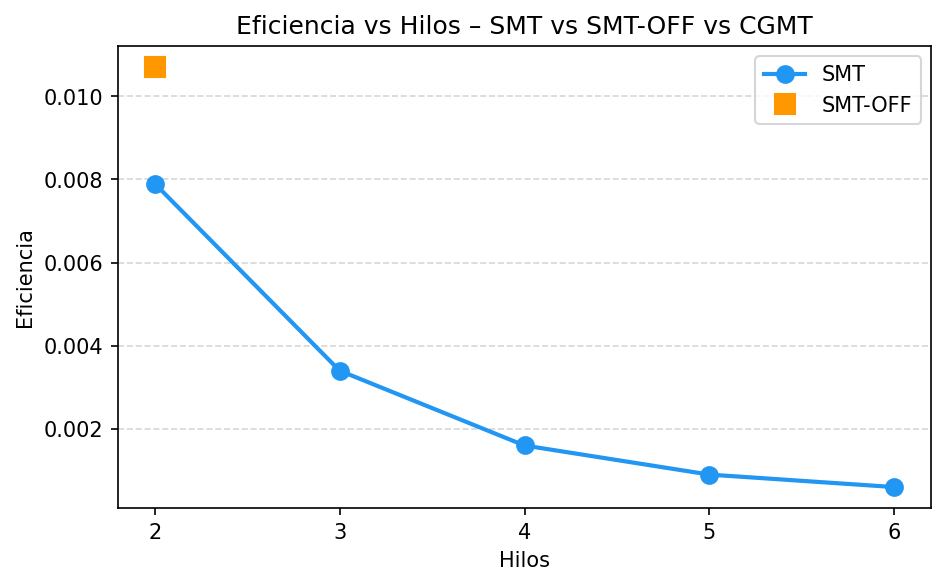
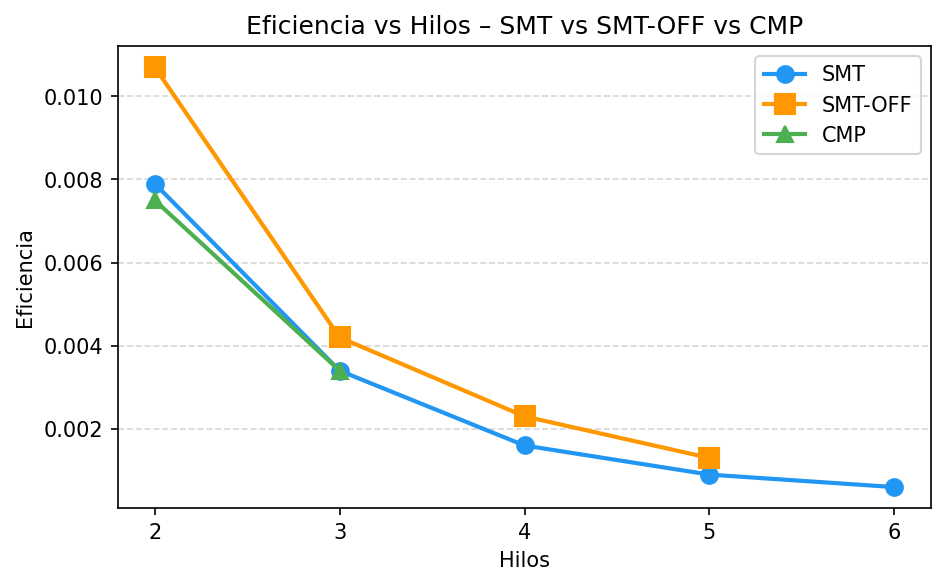
updated graphics

diff --git a/Proyecto1/results/graficas_smt.py b/Proyecto1/results/graficas_smt.py
@@ -13,7 +13,7 @@ df  = pd.read_csv(CSV_PATH)
 
 # Leer smt_th.csv con soporte para filas de 9 y 12 columnas.
 # smt/smtoff: 9 cols (sin branch-misses/ctx-switches/cpu-migrations)
-# normal/cgmt: 12 cols (con esos campos extra)
+# normal/cmp: 12 cols (con esos campos extra)
 # csv.reader maneja los campos entre comillas con comas internas (ej. "(0,1)").
 _rows = []
 with open(METRICS_PATH, newline="") as _f:
@@ -46,10 +46,10 @@ n_smtoff = get_n("smtoff", 2)
 
 smt    = df[df["tipo"] == "smt"].sort_values("hilos")
 smtoff = df[df["tipo"] == "smtoff"].sort_values("hilos")
-cgmt   = df[df["tipo"] == "cgmt"].sort_values("hilos")
+cmp   = df[df["tipo"] == "cmp"].sort_values("hilos")
 normal = df[df["tipo"] == "normal"].iloc[0]
 
-# -- Tiempo de ejecución vs Hilos – SMT vs SMT-OFF vs CGMT (comparado) --------
+# -- Tiempo de ejecución vs Hilos – SMT vs SMT-OFF vs CMP (comparado) --------
 fig, ax = plt.subplots(figsize=(7, 4))
 ax.plot(smt["hilos"], smt["media_aritmetica"],
         marker="o", color="#2196F3", linewidth=2, markersize=8, label="SMT")
@@ -60,23 +60,23 @@ ax.fill_between(
     alpha=0.15, color="#2196F3", label="IC 95% SMT"
 )
 ax.plot(smtoff["hilos"], smtoff["media_aritmetica"],
-        marker="s", color="#FF9800", linewidth=0, markersize=10, label="SMT-OFF")
+        marker="s", color="#FF9800", linewidth=2, markersize=10, label="SMT-OFF")
 ax.errorbar(smtoff["hilos"], smtoff["media_aritmetica"],
             yerr=smtoff["IC"],
             fmt="none", ecolor="#FF9800", capsize=6, capthick=1.5)
-if not cgmt.empty:
-    ax.plot(cgmt["hilos"], cgmt["media_aritmetica"],
-            marker="^", color="#4CAF50", linewidth=2, markersize=8, label="CGMT")
+if not cmp.empty:
+    ax.plot(cmp["hilos"], cmp["media_aritmetica"],
+            marker="^", color="#4CAF50", linewidth=2, markersize=8, label="CMP")
     ax.fill_between(
-        cgmt["hilos"],
-        cgmt["media_aritmetica"] - cgmt["IC"],
-        cgmt["media_aritmetica"] + cgmt["IC"],
-        alpha=0.15, color="#4CAF50", label="IC 95% CGMT"
+        cmp["hilos"],
+        cmp["media_aritmetica"] - cmp["IC"],
+        cmp["media_aritmetica"] + cmp["IC"],
+        alpha=0.15, color="#4CAF50", label="IC 95% CMP"
     )
 ax.set_xlabel("Hilos")
 ax.set_ylabel("Tiempo de ejecución (s)")
-ax.set_title("Tiempo de Ejecución vs Hilos – SMT vs SMT-OFF vs CGMT")
-all_hilos = smt["hilos"].tolist() + smtoff["hilos"].tolist() + (cgmt["hilos"].tolist() if not cgmt.empty else [])
+ax.set_title("Tiempo de Ejecución vs Hilos – SMT vs SMT-OFF vs CMP")
+all_hilos = smt["hilos"].tolist() + smtoff["hilos"].tolist() + (cmp["hilos"].tolist() if not cmp.empty else [])
 ax.set_xticks(sorted(set(all_hilos)))
 ax.legend()
 ax.grid(axis="y", linestyle="--", alpha=0.5)
@@ -84,19 +84,19 @@ fig.savefig(OUT_DIR / "tiempo_comparado.png", bbox_inches="tight", dpi=150)
 plt.close(fig)
 print("  guardada: tiempo_comparado.png")
 
-# -- Eficiencia vs Hilos – SMT vs SMT-OFF vs CGMT (comparado) -----------------
+# -- Eficiencia vs Hilos – SMT vs SMT-OFF vs CMP (comparado) -----------------
 fig, ax = plt.subplots(figsize=(7, 4))
 ax.plot(smt["hilos"], smt["Eficiencia"],
         marker="o", color="#2196F3", linewidth=2, markersize=8, label="SMT")
 ax.plot(smtoff["hilos"], smtoff["Eficiencia"],
-        marker="s", color="#FF9800", linewidth=0, markersize=10, label="SMT-OFF")
-if not cgmt.empty:
-    ax.plot(cgmt["hilos"], cgmt["Eficiencia"],
-            marker="^", color="#4CAF50", linewidth=2, markersize=8, label="CGMT")
+        marker="s", color="#FF9800", linewidth=2, markersize=10, label="SMT-OFF")
+if not cmp.empty:
+    ax.plot(cmp["hilos"], cmp["Eficiencia"],
+            marker="^", color="#4CAF50", linewidth=2, markersize=8, label="CMP")
 ax.set_xlabel("Hilos")
 ax.set_ylabel("Eficiencia")
-ax.set_title("Eficiencia vs Hilos – SMT vs SMT-OFF vs CGMT")
-all_hilos = smt["hilos"].tolist() + smtoff["hilos"].tolist() + (cgmt["hilos"].tolist() if not cgmt.empty else [])
+ax.set_title("Eficiencia vs Hilos – SMT vs SMT-OFF vs CMP")
+all_hilos = smt["hilos"].tolist() + smtoff["hilos"].tolist() + (cmp["hilos"].tolist() if not cmp.empty else [])
 ax.set_xticks(sorted(set(all_hilos)))
 ax.legend()
 ax.grid(axis="y", linestyle="--", alpha=0.5)
@@ -104,31 +104,19 @@ fig.savefig(OUT_DIR / "eficiencia_comparado.png", bbox_inches="tight", dpi=150)
 plt.close(fig)
 print("  guardada: eficiencia_comparado.png")
 
-# -- SpeedUp vs Hilos – SMTOFF (barra) ----------------------------------------
-fig, ax = plt.subplots(figsize=(4, 4))
-ax.bar("SMT-OFF\n2 hilos", smtoff["SpeedUp"].iloc[0],
-       color="#FF9800", width=0.4, label="SMT-OFF")
-ax.set_ylabel("SpeedUp")
-ax.set_title(f"SpeedUp – SMT-OFF (N={n_smtoff})")
-ax.legend()
-ax.grid(axis="y", linestyle="--", alpha=0.5)
-fig.savefig(OUT_DIR / "speedup_smtoff.png", bbox_inches="tight", dpi=150)
-plt.close(fig)
-print("  guardada: speedup_smtoff.png")
-
-# -- SpeedUp comparado: SMT vs SMT-OFF vs CGMT --------------------------------
+# -- SpeedUp comparado: SMT vs SMT-OFF vs CMP --------------------------------
 fig, ax = plt.subplots(figsize=(7, 4))
 ax.plot(smt["hilos"], smt["SpeedUp"],
         marker="o", color="#2196F3", linewidth=2, markersize=8, label="SMT")
 ax.plot(smtoff["hilos"], smtoff["SpeedUp"],
-        marker="s", color="#FF9800", linewidth=0, markersize=10, label="SMT-OFF")
-if not cgmt.empty:
-    ax.plot(cgmt["hilos"], cgmt["SpeedUp"],
-            marker="^", color="#4CAF50", linewidth=2, markersize=8, label="CGMT")
+        marker="s", color="#FF9800", linewidth=2, markersize=10, label="SMT-OFF")
+if not cmp.empty:
+    ax.plot(cmp["hilos"], cmp["SpeedUp"],
+            marker="^", color="#4CAF50", linewidth=2, markersize=8, label="CMP")
 ax.set_xlabel("Hilos")
 ax.set_ylabel("SpeedUp")
-ax.set_title("SpeedUp vs Hilos – SMT vs SMT-OFF vs CGMT")
-all_hilos = smt["hilos"].tolist() + smtoff["hilos"].tolist() + (cgmt["hilos"].tolist() if not cgmt.empty else [])
+ax.set_title("SpeedUp vs Hilos – SMT vs SMT-OFF vs CMP")
+all_hilos = smt["hilos"].tolist() + smtoff["hilos"].tolist() + (cmp["hilos"].tolist() if not cmp.empty else [])
 ax.set_xticks(sorted(set(all_hilos)))
 ax.legend()
 ax.grid(axis="y", linestyle="--", alpha=0.5)
@@ -136,10 +124,10 @@ fig.savefig(OUT_DIR / "speedup_comparado.png", bbox_inches="tight", dpi=150)
 plt.close(fig)
 print("  guardada: speedup_comparado.png")
 
-# -- Boxplot distribución de tiempos – SMT, SMT-OFF y CGMT -------------------
-COLORES = {"smt": "#90CAF9", "smtoff": "#FFCC80", "cgmt": "#A5D6A7"}
+# -- Boxplot distribución de tiempos – SMT, SMT-OFF y CMP -------------------
+COLORES = {"smt": "#90CAF9", "smtoff": "#FFCC80", "cmp": "#A5D6A7"}
 
-for tipo in ("smt", "smtoff", "cgmt"):
+for tipo in ("smt", "smtoff", "cmp"):
     grupo_tipo = raw[raw["tipo"] == tipo]
     grupos_box = grupo_tipo.groupby("threads")["task-clock (s)"]
     data_box   = [g.values for _, g in grupos_box]

diff --git a/Proyecto1/README.md b/Proyecto1/README.md
@@ -3,7 +3,7 @@ Proyecto I — Arquitectura II (2026 S1)
 
 ## Descripción
 
-Implementación y análisis de rendimiento de una red neuronal feed-forward (3 → 70 → 1) bajo distintos modelos de threading y scheduling. El objetivo es medir el impacto del **SMT (Simultaneous Multi-Threading)** sobre ciclos, instrucciones, cache-misses y tiempo de ejecución.
+Implementación y análisis de rendimiento de una red neuronal feed-forward (3 → 30 → 1) bajo distintos modelos de threading y scheduling.
 
 Se comparan cuatro variantes:
 
